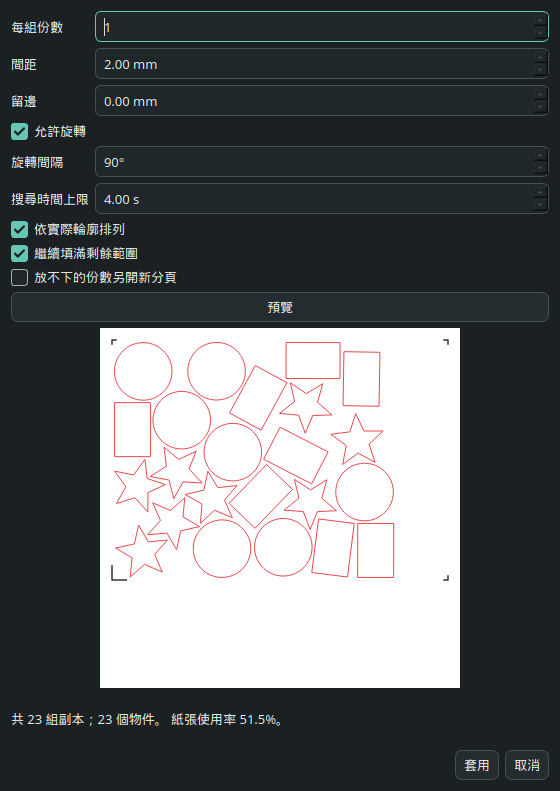
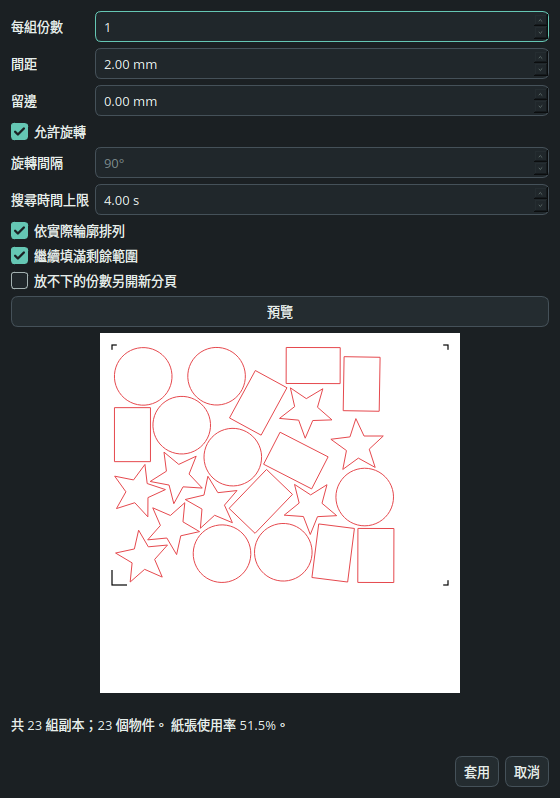
Polish README wording and finish layout dialog text
Describe free-angle layout accurately, translate the remaining dialog text,
and disable the rotation step while the built-in engine handles rotation.

Claude-Session: https://claude.ai/code/session_016cb9yg55mt4mNoSmZvmb51

diff --git a/src/verona/preview_dialogs.py b/src/verona/preview_dialogs.py
@@ -198,6 +198,7 @@ class PackingDialog(QDialog):
             engine_available = nesting_available()
         except (ImportError, OSError, RuntimeError):
             engine_available = False
+        self._engine_available = engine_available
         if engine_available:
             self.rotate_check.setChecked(True)
             self.shape_check.setChecked(True)
@@ -269,6 +270,7 @@ class PackingDialog(QDialog):
             check.toggled.connect(self.invalidate)
         self.rotate_check.toggled.connect(self._rotation_controls_changed)
         self.shape_check.toggled.connect(self._rotation_controls_changed)
+        self.pages_check.toggled.connect(self._rotation_controls_changed)
         self._rotation_controls_changed()
 
     def invalidate(self, *_args):
@@ -281,7 +283,10 @@ class PackingDialog(QDialog):
         self.summary.show()
 
     def _rotation_controls_changed(self, *_args):
-        self.rotation_spin.setEnabled(self.rotate_check.isChecked() and self.shape_check.isChecked())
+        # The nesting engine rotates freely; the step only applies to the legacy layout.
+        legacy = not self._engine_available or self.pages_check.isChecked()
+        self.rotation_spin.setEnabled(legacy and self.rotate_check.isChecked()
+                                      and self.shape_check.isChecked())
 
     def _parameters(self, items=None, indices=None):
         items = self.owner.items if items is None else items
@@ -400,7 +405,7 @@ class PackingDialog(QDialog):
                 dialog.plan = None
                 dialog._stop_progress(completed=True)
                 dialog.preview_label.clear()
-                dialog.summary.setText(tr("新引擎未找到可套用的排版結果。"))
+                dialog.summary.setText(tr("這次排版找不到可套用的結果。"))
                 dialog.summary.show()
                 dialog.preview_button.setEnabled(True)
                 dialog.apply_button.setEnabled(False)

diff --git a/src/verona/ui_translations.py b/src/verona/ui_translations.py
@@ -249,6 +249,10 @@ ENGLISH = {
     "本次搜尋未能放下全部指定份數。請減少份數，或嘗試允許旋轉與依輪廓排列。": "This search did not place all requested copies. Reduce counts or try rotation and contour footprints.",
     "自動排版": "Automatic layout",
     "排版中…": "Packing…",
+    "預覽": "Preview",
+    "已過 {elapsed:.1f} 秒 / {limit:.1f} 秒": "{elapsed:.1f} s of {limit:.1f} s",
+    "這次排版找不到可套用的結果。": "This layout run found no result to apply.",
+    "無法儲存排版預覽圖。": "Could not save the layout preview.",
     "自動排版…": "Automatic layout…",
     "每組份數": "Copies per unit",
     "間距": "Gap",

diff --git a/README.zh-TW.md b/README.zh-TW.md
@@ -4,23 +4,24 @@
 
 ![Verona — Juliet 的原生 Linux 工作空間。](docs/assets/banner.png)
 
-給 **Siser Juliet** 使用者的獨立 Linux 桌面工作空間。可在同一套程式中匯入與編輯圖稿、安排版面、以原尺寸列印，再透過本機 Wi-Fi 傳送切割工作。不需帳號、訂閱，也不會上傳雲端；安裝時會下載依賴套件，平常編輯與切割都能離線使用。
+給 **Siser Juliet** 使用者的獨立 Linux 桌面工作空間。在同一個程式裡就能匯入和編輯圖稿、排版、以原尺寸列印，再透過 Wi-Fi 把切割工作傳給機器。不需要帳號或訂閱，也不會上傳雲端；安裝時要下載相依套件，平常編輯和切割都能離線使用。
 
 ![Verona 工作區：文件分頁、左上方檔案與匯入工具、右上方縮放、固定於上方與左側的尺標、插入選單、置中的紙張，以及右側面板的輸出控制。](docs/assets/editor-dark-zh-TW.png)
 
 ## 功能
 
 - **圖稿與路徑：** 匯入 SVG 向量、點陣圖片及 PDF 頁面；可將圖片拖入工作區開啟匯入預覽；建立形狀、加入可編輯文字並轉成輪廓，編輯節點、曲線與遮罩，也能從點陣圖片描出刀線。封閉向量圖形可合併、相減、取交集或排除重疊部分。圖片預覽中可用滾輪以游標為中心縮放、中鍵或空白鍵＋左鍵拖曳平移，並按「符合視窗」重設檢視。
-- **排版與圖層：** 移動、縮放、旋轉、鏡射、群組、對齊、分散，並使用智慧或尺標參考線貼齊邊緣。可預覽不同尺寸圖稿的自動排版，設定間距與 5° 至 90° 的旋轉步進（每次遞增 5°），依輪廓排列、填滿空位或保留空間；放不下的份數也能另開新分頁。Linux x86_64、glibc 2.17 以上提供內建輪廓排版引擎；其他平台使用舊版排法。預覽會列出未排入的份數。每個物件都能分別設定顯示、鎖定、前後順序、列印與切割。
+- **排版與圖層：** 移動、縮放、旋轉、鏡射、群組、對齊、分散，並用智慧參考線或尺標參考線貼齊邊緣。每個物件都能分別設定顯示、鎖定、前後順序、列印與切割。
+- **自動排版：** 內建排版引擎會依實際輪廓、以任意角度把選取的物件排進紙張，避開定位標記和紙上其他物件，剩下的空位會盡量集中，留給你自己決定要不要再放東西。排版時有進度條，預覽會列出放不下的份數。也可以勾選填滿剩餘範圍，或把放不下的份數放到新分頁（這個選項使用舊版排法）。內建引擎支援 Linux x86_64、glibc 2.17 以上，其他平台使用舊版排法。
 - **批次產生個人化圖稿：** 先預覽 CSV 或貼上的表格資料，再從同一份設計範本批次產生含個人化文字的圖稿。
-- **後編輯：** 不用重新匯入圖片，就能批次調整外側出血、內側補色、延伸邊緣色或使用單色出血，還原支援的原始 LDS 出血，或編輯單張圖片遮罩。「平滑切割線…」可預覽原線與結果，並以毫米最大偏移套用到所選向量或圖片切線；操作可復原。平滑可能減少短線段與轉向；尚無實體速度測試。
+- **後編輯：** 不用重新匯入圖片，就能批次調整外側出血、內側補色、延伸邊緣色或使用單色出血，還原支援的原始 LDS 出血，或編輯單張圖片遮罩。「平滑切割線…」可比較原線與結果，設定最大偏移（毫米）後套用到所選的向量或圖片切線，也能復原。平滑後短線段和轉折可能變少，但實際切割速度有沒有變快還沒測過。
 - **紙張與列印：** 選擇常用或自訂紙張尺寸與方向；以 100% 原尺寸預覽和列印、匯出 PDF、設定 Print & Cut 定位標記，並依量測結果調整對位。驅動程式有提供時，可選紙材與品質；也能選用 ICC 描述檔及演算意圖。
 - **保存設定：** 設計檔保存印表機與紙材偏好，以及切割次數、速度、壓力和工具設定；本機也會記住上次使用的列印偏好。
-- **工作介面：** 多文件分頁、復原／重做、可收合的右側區塊；滾輪不會誤改下拉選單或數值欄位。開啟設計時會符合紙張高度；按 `Ctrl+0` 可重新符合。檔案與匯入工具在左上方，縮放在右上方，與檔案工具分開；尺標固定於工作區上方與左側，不隨畫布捲動，刻度會跟隨視圖更新。底部狀態列保持精簡，只有傳送時顯示停止按鈕；切割預覽、匯出與傳送位於右側面板。主畫布按住 Ctrl／Alt 滾輪可依游標位置縮放，Shift 滾輪水平捲動；Shift 拖曳可限制移動方向，Alt 拖曳可複製，按住 Shift 旋轉會以 15° 為間隔。支援繁體中文、英文與亮暗主題。
+- **工作介面：** 多文件分頁、復原／重做、可收合的右側區塊；滾輪不會誤改下拉選單或數值欄位。開啟設計時會縮放到紙張高度，按 `Ctrl+0` 可再縮放一次。檔案與匯入工具在左上方，縮放在右上方，與檔案工具分開；尺標固定於工作區上方與左側，不隨畫布捲動，刻度會跟隨視圖更新。底部狀態列保持精簡，只有傳送時顯示停止按鈕；切割預覽、匯出與傳送位於右側面板。主畫布按住 Ctrl／Alt 滾輪可依游標位置縮放，Shift 滾輪水平捲動；Shift 拖曳可限制移動方向，Alt 拖曳可複製，按住 Shift 旋轉會以 15° 為間隔。支援繁體中文、英文與亮暗主題。
 - **桌面整合：** 雙擊檔案會交給既有工作視窗，已開啟的文件會切回原分頁；支援的檔案管理員可顯示 LDS 縮圖。
-- **本機工具：** 預設試跑的 CLI、唯讀切割機資訊與實驗性本機韌體工具。選用的 MCP 協作介面可讓相容的助理查看、編輯目前開啟的設計，並準備列印或切割工作；送印與傳送仍須明確執行。
+- **本機工具：** 預設只試跑、不實際送出的 CLI，唯讀的切割機資訊，以及實驗性的本機韌體工具。選用的 MCP 協作介面可以讓相容的 AI 助理查看、編輯目前開啟的設計，並準備列印或切割工作；真正送印和傳送都要明確下指令。
 
-![Verona 自動排版對話框，以 Print & Cut 紙張預覽測試素材排版結果與紙張使用率。](docs/assets/nesting-preview-zh-TW.png)
+![Verona 自動排版對話框：測試形狀以不同角度排在 Print & Cut 紙張上，並顯示紙張使用率。](docs/assets/nesting-preview-zh-TW.png)
 
 ### 自動復原
 
@@ -58,7 +59,7 @@ Verona 目前是 **Alpha 測試階段**，支援的切割工作區為 **300 × 3
 
 ## 安裝
 
-需要 **Linux 與 Python 3.11 以上版本**。Ubuntu／Mint 若缺少系統依賴，可先安裝：
+需要 **Linux 與 Python 3.11 以上版本**。Ubuntu／Mint 若缺少系統套件，可先安裝：
 
 ~~~bash
 sudo apt install git python3-venv libxcb-cursor0 libegl1 libopengl0 libxkbcommon0 libfontconfig1
@@ -95,12 +96,12 @@ git pull --ff-only
 ./run.sh
 ~~~
 
-拉取更新後要重新安裝，Verona 與支援平台上的排版引擎才會一併更新。
+更新程式碼後要重新安裝，Verona 和內建排版引擎才會一起更新。
 
 ## 日常操作
 
-1. **開啟或匯入：** 用分頁開啟 `.lds`、`.jdesign`，紙張會符合工作區高度；
-   按 `Ctrl+0` 可重新符合。從頂部匯入圖稿，或將一張／多張圖片拖入工作區，開啟匯入預覽。
+1. **開啟或匯入：** 用分頁開啟 `.lds`、`.jdesign`，紙張會縮放到工作區高度，
+   按 `Ctrl+0` 可再縮放一次。從頂部匯入圖稿，或將一張／多張圖片拖入工作區，開啟匯入預覽。
    預覽中可用滾輪以游標為中心縮放、中鍵或空白鍵＋左鍵拖曳平移，並按「符合視窗」重設檢視。新匯入圖片的刀線平滑預設為 0.10 mm（範圍 0–0.5 mm；設為 0 可停用）；舊設計不會自動變更。
    圖片可選「僅列印」、「僅切割」或「列印＋切割」，之後仍能變更輸出用途並保留原始圖片。
 2. **編輯與排版：** 從「插入」選單新增形狀與文字輪廓，再調整路徑、圖層及排列；
@@ -115,7 +116,7 @@ git pull --ff-only
 
 ### 畫布快捷鍵
 
-方向鍵每次移動 0.1 mm，Shift+方向鍵移動 1 mm。Ctrl+C／X／V 複製、剪下、貼上；Ctrl+Shift+V 原位貼上。Delete 或 Backspace 刪除選取物件。Ctrl+]／Ctrl+[ 上移／下移一層，加 Shift 則移至最上／最下層。Ctrl+= 或 Ctrl++ 放大、Ctrl+- 縮小、Ctrl+1 顯示 100%、Ctrl+0 符合頁高。Esc 或 Ctrl+Shift+A 取消選取。
+方向鍵每次移動 0.1 mm，Shift+方向鍵移動 1 mm。Ctrl+C／X／V 複製、剪下、貼上；Ctrl+Shift+V 原位貼上。Delete 或 Backspace 刪除選取物件。Ctrl+]／Ctrl+[ 上移／下移一層，加 Shift 則移至最上／最下層。Ctrl+= 或 Ctrl++ 放大、Ctrl+- 縮小、Ctrl+1 顯示 100%、Ctrl+0 縮放到頁高。Esc 或 Ctrl+Shift+A 取消選取。
 
 預覽或調整列印設定不會直接送印。驅動選項只會隨該次工作送出，並儲存在設計檔；Verona 不會變更印表機預設值。ICC 描述檔路徑依印表機與紙材存在本機設定，不會寫入設計檔。紙張尺寸與方向依設計設定；若原印表機無法使用，預覽會顯示提醒。
 
@@ -203,7 +204,7 @@ python scripts/check-release.py
 
 ## 授權與專案性質
 
-原始碼採 [MIT 授權](LICENSE)；依賴套件保留[各自授權](THIRD_PARTY_NOTICES.md)。
+原始碼採 [MIT 授權](LICENSE)；相依套件保留[各自授權](THIRD_PARTY_NOTICES.md)。
 
 Verona 是獨立、非官方的 Linux 互通性專案，與 Siser S.r.l.、Siser North America, Inc.
 沒有隸屬、背書或支援關係。Siser、Juliet、Romeo 與 Leonardo Design Studio 為各持有者的商標。

diff --git a/README.md b/README.md
@@ -21,14 +21,16 @@ offline.
   shapes. In the image preview, wheel to zoom around the pointer, middle-drag or
   Space+left-drag to pan, and **Fit** to reset the view.
 - **Layout and layers:** move, resize, rotate, mirror, group, align, distribute
-  and snap artwork to edges with smart or ruler guides. Preview an automatic
-  layout for mixed-size copies, choose the gap and a rotation step from 5° to 90°
-  in 5° increments,
-  use contour shapes, fill remaining space or leave it open, and put copies that do not fit
-  on new tabs. The built-in contour-aware engine is available on Linux x86_64
-  with glibc 2.17 or newer; other platforms use the legacy layout. The preview
-  reports copies it could not place. Control visibility, locking, stacking
-  order, printing and cutting per object.
+  and snap artwork to edges with smart or ruler guides. Control visibility,
+  locking, stacking order, printing and cutting per object.
+- **Automatic layout:** the built-in engine packs the selected artwork by its
+  real outline at any angle, keeps clear of registration marks and anything else
+  on the sheet, and gathers the leftover space so you can decide what to do with
+  it. A progress bar runs while it works, and the preview lists any copies that
+  did not fit. You can also fill the remaining space, or send copies that do not
+  fit to new tabs (that option uses the legacy layout). The built-in engine
+  supports Linux x86_64 with glibc 2.17 or newer; other platforms use the legacy
+  layout.
 - **Personalized batches:** preview CSV rows or pasted table data, then create batches
   of personalized text artwork from one design template.
 - **Post-edit:** adjust outer bleed and inner fill on multiple existing images,
@@ -63,7 +65,7 @@ offline.
   assistants inspect and edit the open design and prepare print or cut work;
   printing and sending remain explicit actions.
 
-![Verona's automatic layout dialog showing test-fixture shapes arranged on a Print & Cut sheet and the paper-utilization summary.](docs/assets/nesting-preview.png)
+![Verona's automatic layout dialog: test shapes packed at different angles on a Print & Cut sheet, with the paper utilization shown below.](docs/assets/nesting-preview.png)
 
 ### Automatic recovery
 
@@ -145,8 +147,8 @@ git pull --ff-only
 ./run.sh
 ~~~
 
-Reinstalling is required after pulling changes so Verona and the supported
-Linux nesting engine are updated together.
+Reinstall after pulling changes so Verona and the built-in layout engine update
+together.
 
 ## Everyday workflow
 
